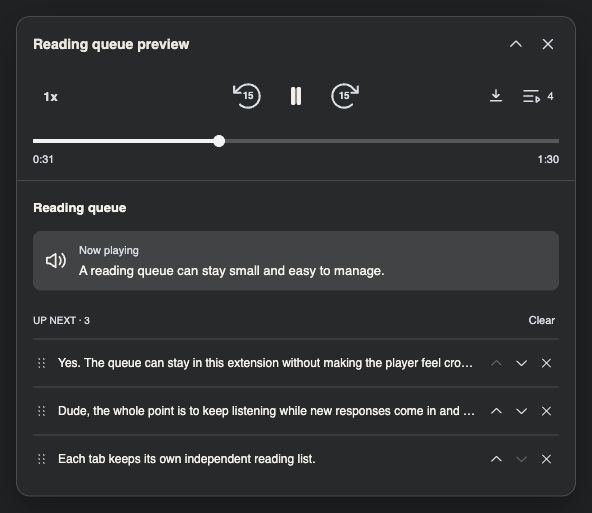
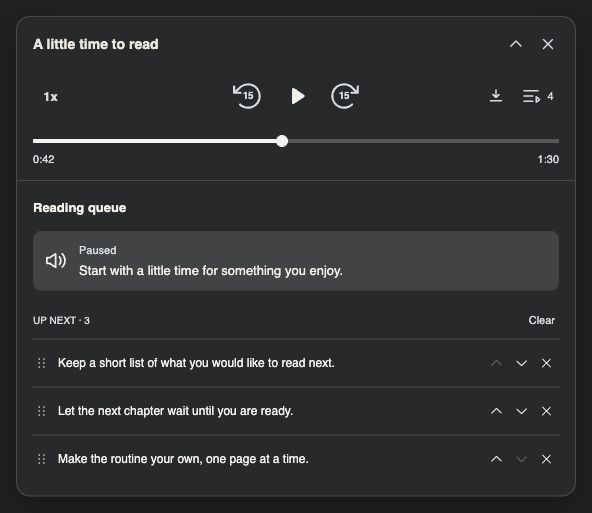
Unify documentation with theme-aware screenshots and splash

diff --git a/images/splash-source.html b/images/splash-source.html
@@ -1,0 +1,42 @@
+<!doctype html>
+<html lang="en">
+<meta charset="utf-8">
+<meta name="viewport" content="width=device-width,initial-scale=1">
+<title>Read Aloud Controls — documentation splash</title>
+<style>
+    * { box-sizing: border-box; }
+    :root { --paper: #e9ece6; --ink: #28302a; --muted: #5d685f; --label: #667064; }
+    html[data-theme=dark] { --paper: #1b241f; --ink: #e9eee8; --muted: #a4b3a7; --label: #9daf9f; }
+    body { margin: 0; background: var(--paper); font-family: -apple-system, BlinkMacSystemFont, 'Segoe UI', sans-serif; color: var(--ink); }
+    #splash { position: relative; width: 1280px; height: 920px; overflow: hidden; background: var(--paper); }
+    header { position: absolute; left: 84px; top: 48px; }
+    .brand { margin: 0 0 17px; font-size: 17px; font-weight: 600; letter-spacing: .2px; color: var(--muted); }
+    h1 { margin: 0; font-size: 68px; line-height: 1.04; letter-spacing: -3px; font-weight: 650; }
+    .subtitle { margin: 19px 0 0; font-size: 22px; color: var(--muted); letter-spacing: -.3px; }
+    figure { position: absolute; margin: 0; width: 560px; }
+    figcaption { position: absolute; top: -31px; font-size: 12px; letter-spacing: 2px; font-weight: 650; color: var(--label); }
+    .light { left: 84px; top: 278px; }
+    .dark { left: 606px; top: 384px; z-index: 2; }
+    .dark figcaption { right: 0; }
+    .window { position: relative; width: 560px; height: 481px; border-radius: 14px; overflow: hidden; background: #f7f7f4; box-shadow: 0 30px 55px -22px #26342840, 0 5px 15px #2634280a; }
+    .dark .window { background: #28292b; box-shadow: 0 35px 65px -22px #17231b55, 0 8px 20px #17231b12; }
+    figure img { position: absolute; left: -16px; top: -16px; width: 592px; height: 513px; }
+    footer { position: absolute; left: 84px; bottom: 66px; width: 410px; font-size: 17px; color: var(--muted); line-height: 1.5; }
+</style>
+<main id="splash" aria-label="Read Aloud Controls product splash showing light and dark players">
+    <header>
+        <p class="brand">Read Aloud Controls for ChatGPT</p>
+        <h1>Listen at your pace.</h1>
+        <p class="subtitle">A familiar player. A queue you control.</p>
+    </header>
+    <figure class="light"><figcaption>LIGHT</figcaption><div class="window"><img src="reading-queue-light.jpg" alt="Actual extension player and queue in light mode"></div></figure>
+    <figure class="dark"><figcaption>DARK</figcaption><div class="window"><img src="reading-queue-dark.jpg" alt="Actual extension player and queue in dark mode"></div></figure>
+    <footer>Light or dark.<br>The same controls, right where you need them.</footer>
+</main>
+<script>
+    // Only the composition background changes. Both product views are untouched
+    // browser captures of the actual extension, arranged by this source file.
+    const theme = new URLSearchParams(location.search).get('theme');
+    document.documentElement.dataset.theme = theme === 'dark' ? 'dark' : 'light';
+</script>
+</html>

diff --git a/images/review.html b/images/review.html
@@ -1,0 +1,33 @@
+<!doctype html>
+<html lang="en">
+<meta charset="utf-8">
+<meta name="viewport" content="width=device-width,initial-scale=1">
+<title>README visual review</title>
+<style>
+    *{box-sizing:border-box}body{margin:0;background:#fff;color:#1f2328;font:14px system-ui,sans-serif}body[data-theme=dark]{background:#0d1117;color:#e6edf3}
+    header{max-width:960px;margin:24px auto;padding:0 24px;display:flex;align-items:center;gap:10px}header p{flex:1;margin:0}button{padding:7px 14px;border:1px solid #8886;border-radius:6px;background:transparent;color:inherit;font:inherit;cursor:pointer}button[aria-pressed=true]{outline:2px solid #6c9b87;outline-offset:2px}
+    iframe{display:block;width:min(960px,100%);height:2840px;margin:auto;border:0}
+</style>
+<header><p>README image sequence · theme preview</p><button type="button" data-theme="light">Light</button><button type="button" data-theme="dark">Dark</button></header>
+<iframe title="Actual theme-aware picture elements from the README"></iframe>
+<script>
+    const frame=document.querySelector('iframe');
+    function setTheme(theme){
+        document.body.dataset.theme=theme;
+        frame.style.colorScheme=theme;
+        document.querySelectorAll('button').forEach(button=>button.setAttribute('aria-pressed',String(button.dataset.theme===theme)));
+    }
+    document.querySelectorAll('button').forEach(button=>button.onclick=()=>setTheme(button.dataset.theme));
+    setTheme('light');
+    fetch('../README.md').then(response=>response.text()).then(markdown=>{
+        const pictures=[...markdown.matchAll(/<picture>[\s\S]*?<\/picture>/g)].map(match=>match[0]);
+        const headings=['Product splash','Expanded player','Minimized player','Reading queue','Settings'];
+        const base=new URL('../',location.href).href;
+        frame.srcdoc=`<!doctype html><html lang="en"><meta charset="utf-8"><base href="${base}"><style>
+            :root{color-scheme:light dark;--bg:#fff;--fg:#1f2328;--border:#d1d9e0} @media(prefers-color-scheme:dark){:root{--bg:#0d1117;--fg:#e6edf3;--border:#3d444d}}
+            body{margin:0;padding:8px 56px;background:var(--bg);color:var(--fg);font:16px/1.5 system-ui,sans-serif}h1{font-size:32px;margin:0 0 20px;padding-bottom:8px;border-bottom:1px solid var(--border)}h2{font-size:23px;margin:32px 0 16px}picture{display:block}img{max-width:100%;height:auto}section:first-of-type h2{display:none}
+            @media(max-width:640px){body{padding:8px 16px}}
+            </style><h1>Read Aloud Controls for ChatGPT</h1>${pictures.map((picture,index)=>`<section><h2>${headings[index]}</h2>${picture}</section>`).join('')}</html>`;
+    });
+</script>
+</html>

diff --git a/tests/fixtures/reading-queue-preview.html b/tests/fixtures/reading-queue-preview.html
@@ -26,7 +26,14 @@ window.fetch=(input,options)=>String(input).includes('/backend-api/synthesize')?
 <script src="../../src/js/player-settings.js"></script><script src="../../src/js/aac-container.js"></script><script src="../../src/js/media-timeline.js"></script><script src="../../src/js/captured-playback.js"></script><script src="../../src/js/reading-queue.js"></script><script src="../../src/js/content-script.js"></script>
 <script>
 let pageAudio=null;let pageObjectUrl=null;let number=0;let theme='dark';
-const examples=[
+const documentationPreview=new URLSearchParams(location.search).get('ae-docs')==='1';
+if(documentationPreview)document.title='A little time to read - ChatGPT';
+const examples=documentationPreview?[
+ 'Start with a little time for something you enjoy. A few quiet minutes can make room for a good book.',
+ 'Keep a short list of what you would like to read next. Choose whatever fits your mood today.',
+ 'Let the next chapter wait until you are ready. You can pick up exactly where you left off.',
+ 'Make the routine your own, one page at a time. There is no need to rush through the whole list.'
+]:[
  'A reading queue can stay small and easy to manage. Keep the player familiar, then reveal upcoming messages only when you need them.',
  'Yes. The queue can stay in this extension without making the player feel crowded. Keep the everyday controls easy to reach.',
  'Dude, the whole point is to keep listening while new responses come in and still be able to move things around without losing your place in the conversation.',

diff --git a/images/popup-source.html b/images/popup-source.html
@@ -1,0 +1,13 @@
+<!doctype html>
+<html lang="en">
+<meta charset="utf-8">
+<title>Settings documentation capture</title>
+<style>html,body{margin:0}iframe{display:block;width:300px;height:395px;border:0}</style>
+<iframe title="Actual extension settings" src="../src/popup.html"></iframe>
+<script>
+    // An iframe inherits the embedding element's color scheme, so production
+    // popup media queries render the requested appearance without a CSS override.
+    const theme = new URLSearchParams(location.search).get('theme');
+    document.querySelector('iframe').style.colorScheme = theme === 'light' ? 'light' : 'dark';
+</script>
+</html>

diff --git a/images/README.md b/images/README.md
@@ -1,50 +1,74 @@
-# Documentation screenshots
+# Documentation visuals
 
 Captured October 30, 2026 from the production extension UI at runtime commit
-`4d782b3`. These are browser JPEG captures, cropped around the player or popup.
-They are not renders of the separate design prototype and have not had controls,
-text, or playback state painted onto them.
+`4d782b3`. The player and popup images are browser JPEG captures. The splash is a
+composition of those captures with typography and a background; its controls and
+response text are the captured product UI.
 
-The player captures use `tests/fixtures/reading-queue-preview.html`, which loads
-the actual player, drawer, scheduler, adapter, media helpers, and styles. Only
-extension storage and the speech/media service are replaced by local boundaries
-with sample responses and silent WAV audio. The popup capture uses the actual
-`src/popup.html`, scripts, and styles; without Chrome storage it displays defaults.
-These images demonstrate UI appearance, not a live ChatGPT compatibility test.
+## Theme-aware presentation
 
-| Image | State | Dimensions |
+The README and usage guide use GitHub-supported `<picture>` elements. A dark
+`<source media="(prefers-color-scheme: dark)">` selects the dark image; the `<img>`
+provides the light image, accessible alternative text, and a fallback for other
+Markdown renderers. Supporting screenshots follow the reader's theme throughout
+the page. The splash intentionally compares both modes together on a matching
+light or dark background.
+
+Open `review.html` on the local server to inspect the actual README picture
+elements together. Its Light and Dark controls change the embedding color scheme
+for review; production Markdown uses the reader's GitHub appearance.
+
+[GitHub's theme-aware image guide](https://github.blog/developer-skills/github/how-to-make-your-images-in-markdown-on-github-adjust-for-dark-mode-and-light-mode/)
+
+| Image pair (`-light.jpg` / `-dark.jpg`) | State | Dimensions |
 | --- | --- | --- |
-| `reading-queue-dark.jpg` | Playing, drawer open, one current response and three waiting. | 592 × 513 |
-| `reading-queue-light.jpg` | Paused, drawer open, same queue. | 592 × 513 |
-| `player-expanded-light.jpg` | Paused, drawer closed. | 592 × 197 |
-| `player-minimized-light.jpg` | Paused, minimized, same skip values. | 592 × 88 |
-| `settings.jpg` | Actual settings form with fresh-install defaults. | 300 × 395 |
+| `splash` | Light and dark players, slightly overlapped in one composition. | 1280 × 920 |
+| `reading-queue` | Paused, drawer open, one current response and three waiting. | 592 × 513 |
+| `player-expanded` | Paused, drawer closed. | 592 × 197 |
+| `player-minimized` | Paused, minimized, same skip values. | 592 × 88 |
+| `settings` | Actual settings form with fresh-install defaults. | 300 × 395 |
+
+## Capture sources
+
+Player captures use `tests/fixtures/reading-queue-preview.html?ae-docs=1`, which
+loads the actual player, drawer, scheduler, adapter, media helpers, and styles.
+The documentation parameter selects a neutral sample title and excerpts. Only
+extension storage and speech/media use local boundaries with silent WAV audio.
+These captures demonstrate appearance, not live ChatGPT compatibility.
+
+`popup-source.html?theme=light` or `?theme=dark` embeds the actual `src/popup.html`.
+The iframe's `color-scheme` lets the production popup's own media queries select
+the appearance. Without extension storage, its actual script displays defaults.
+
+`splash-source.html?theme=light` or `?theme=dark` arranges the two queue captures,
+cropping only their outer margins. It adds the title, theme labels, background,
+and shadows. No player controls are recreated or retouched.
 
 ## Refresh captures
 
 1. Serve the repository locally as described in [DEVELOPMENT.md](../docs/DEVELOPMENT.md).
-2. Open `tests/fixtures/reading-queue-preview.html` at a desktop viewport wide
-   enough for the 560px player. The original captures used 1280 × 720 CSS pixels.
-3. Select **Start sample queue**, then skip forward once to show timeline progress.
-4. Scroll back to the top so the harness controls stay outside the crop. Open the
-   reading drawer and move the pointer onto blank page space to remove hover tint.
-5. Capture the dark playing state. Pause to hold a stable position for subsequent
-   captures. Close the drawer before using the harness's theme button, then scroll
-   back to the top and reopen it for the light capture.
-6. Close the drawer for the expanded-player image. Minimize for the compact image.
-   Include the whole border and a little space for the shadow; retain a consistent
-   displayed width across player screenshots.
-7. Open `src/popup.html` and capture its 300px-wide form, including the status text.
-   The popup follows the browser's system color scheme; this capture is dark.
-8. Inspect every saved image at its displayed size, check file extensions match
-   the actual image format, and update captions if the UI or queue count changed.
+2. Open the interactive fixture with `?ae-docs=1` at a desktop viewport wide
+   enough for the 560px player. These captures used 1280 × 720 CSS pixels.
+3. Select **Start sample queue**, advance with the skip controls, then Pause to
+   hold the same position across every screenshot. Do not edit the rendered text
+   or draw controls onto an exported image.
+4. Scroll to the top so harness controls remain outside the crop. Open the
+   drawer and move the pointer onto blank space before capturing. Close the
+   drawer before clicking the harness theme button, then reopen it in the other
+   theme. Confirm both variants show the same title, position, count, and excerpts.
+5. Capture the expanded player with the drawer closed and then the minimized
+   player in each theme. Preserve matching bounds, including border and shadow.
+6. Capture the 300px-wide form through each `popup-source.html` theme variant.
+7. Open both `splash-source.html` variants and export the full 1280 × 920 page.
+   Check overlap, shadow clipping, text contrast, and actual UI content.
+8. Inspect both documentation themes. Every supporting `<picture>` must select
+   its matching source; the splash's background must match too. Check image
+   extensions and dimensions and keep alternative text neutral about theme.
 
-Use synthetic sample responses, or explicitly approved public content. Do not
-publish screenshots of private chats, account details, or browser profile UI.
-Keep screenshot provenance accurate: a local production-UI capture is not a
-screenshot of the installed extension on live ChatGPT.
+Use sample responses or explicitly approved public content. Do not publish
+private chats, account details, or browser profile UI. A local production-UI
+capture is not a screenshot of the installed extension on live ChatGPT.
 
 The legacy `small-promo-tile-440x280.png` and
-`marquee-promo-tile-1400x560.png` remain historical promotional assets. They are
-not used by the current documentation and have not been refreshed as store art.
-Original project credit remains in [CREDITS.md](../CREDITS.md).
+`marquee-promo-tile-1400x560.png` remain historical promotional assets, outside
+current documentation. Original credit remains in [CREDITS.md](../CREDITS.md).

diff --git a/docs/USAGE.md b/docs/USAGE.md
@@ -4,7 +4,10 @@
 
 Start **Read Aloud** on a completed ChatGPT response. The floating player appears when playback starts. Drag its header to reposition it.
 
-![Expanded player with the reading drawer closed](../images/player-expanded-light.jpg)
+<picture>
+  <source media="(prefers-color-scheme: dark)" srcset="../images/player-expanded-dark.jpg">
+  <img src="../images/player-expanded-light.jpg" alt="Expanded player with the reading drawer closed">
+</picture>
 
 | Control | What it does |
 | --- | --- |
@@ -23,7 +26,10 @@ The player briefly disables Pause while preparing a resumable copy of the respon
 
 While one response is playing or paused, select **Read Aloud** on another completed response. It joins the end instead of interrupting playback. This also works when automatic reading is off.
 
-![Actual dark drawer showing one playing response and three upcoming responses](../images/reading-queue-dark.jpg)
+<picture>
+  <source media="(prefers-color-scheme: dark)" srcset="../images/reading-queue-dark.jpg">
+  <img src="../images/reading-queue-light.jpg" alt="Reading drawer showing one paused response and three upcoming responses">
+</picture>
 
 The queue button counts **current + waiting**. In this screenshot its `4` means one current response and three waiting; **Up next · 3** refers only to those waiting. A current response still counts while paused. A finished response does not count.
 
@@ -42,7 +48,10 @@ Selecting an already queued response does not add a duplicate. Excerpts use a me
 
 Pausing holds your position and prevents the next response from starting. New responses can still join the queue. Playback advances when the current audio ends, keeping the player mounted while the next response starts.
 
-![Minimized player with the same playback and skip controls](../images/player-minimized-light.jpg)
+<picture>
+  <source media="(prefers-color-scheme: dark)" srcset="../images/player-minimized-dark.jpg">
+  <img src="../images/player-minimized-light.jpg" alt="Minimized player with the same playback and skip controls">
+</picture>
 
 Minimizing hides the timeline, extra controls, and drawer. Expanding remembers whether the drawer was open. It does not change the skip intervals or playback position.
 
@@ -56,7 +65,10 @@ The current response’s captured audio uses memory for playback and download. C
 
 Open the extension popup and check **Automatically read new responses aloud**.
 
-<img src="../images/settings.jpg" alt="Extension popup showing skip, speed, theme, and automatic reading settings" width="300">
+<picture>
+  <source media="(prefers-color-scheme: dark)" srcset="../images/settings-dark.jpg">
+  <img src="../images/settings-light.jpg" alt="Extension popup showing skip, speed, theme, and automatic reading settings" width="300">
+</picture>
 
 Newly completed responses join the tab’s queue. Opening, scrolling, or focusing an existing conversation does not read its history. Both manually selected and automatically added responses wait behind paused playback.
 
@@ -92,4 +104,4 @@ The source may have been removed, edited, or unloaded by ChatGPT. The drawer rep
 
 ## About the screenshots
 
-These are browser captures of the production extension modules with local sample responses and silent audio. The popup image uses its actual HTML, CSS, and JavaScript with default settings. They show the current implementation, without publishing private ChatGPT conversations. See [capture instructions](../images/README.md).
+Images follow your GitHub theme. These are matching browser captures of the production extension modules with local sample responses and silent audio. The popup image uses its actual HTML, CSS, and JavaScript with default settings. They show the current implementation, without publishing private ChatGPT conversations. See [capture instructions](../images/README.md).

diff --git a/README.md b/README.md
@@ -2,9 +2,12 @@
 
 Listen to ChatGPT with a floating player and a reading queue you can manage. Pause and resume, seek through a response, change speed, and line up what to hear next.
 
-![Current dark player with its attached reading queue: one response playing and three waiting](images/reading-queue-dark.jpg)
+<picture>
+  <source media="(prefers-color-scheme: dark)" srcset="images/splash-dark.jpg">
+  <img src="images/splash-light.jpg" alt="Read Aloud Controls for ChatGPT: overlapping light and dark players with a reading queue">
+</picture>
 
-*Production extension UI captured locally with sample responses. [Capture notes](images/README.md).*
+*Actual extension UI with sample responses. Screenshots follow your GitHub theme; the splash presents both options together. [Capture notes](images/README.md).*
 
 This extension is independently maintained and is not affiliated with OpenAI.
 
@@ -32,11 +35,17 @@ When updating an existing unpacked installation, update its files, click **Reloa
 
 With the drawer closed, the player keeps the playback controls and timeline in view:
 
-![Expanded light player with speed, skip, playback, download, queue, and timeline controls](images/player-expanded-light.jpg)
+<picture>
+  <source media="(prefers-color-scheme: dark)" srcset="images/player-expanded-dark.jpg">
+  <img src="images/player-expanded-light.jpg" alt="Expanded player with speed, skip, playback, download, queue, and timeline controls">
+</picture>
 
 Minimizing hides the timeline and drawer while keeping the same skip intervals and Play/Pause control:
 
-![Minimized light player retaining skip back, Play, skip forward, expand, and close controls](images/player-minimized-light.jpg)
+<picture>
+  <source media="(prefers-color-scheme: dark)" srcset="images/player-minimized-dark.jpg">
+  <img src="images/player-minimized-light.jpg" alt="Minimized player retaining skip back, Play, skip forward, expand, and close controls">
+</picture>
 
 ## The reading queue
 
@@ -44,7 +53,10 @@ Open the queue beside Download to see the current response and what is waiting. 
 
 Clicking a response preview scrolls to and briefly highlights its source in the chat. It does not start playback or change the order. Pause holds your place; new responses can still join the end.
 
-![Light reading queue with a paused response and three upcoming responses](images/reading-queue-light.jpg)
+<picture>
+  <source media="(prefers-color-scheme: dark)" srcset="images/reading-queue-dark.jpg">
+  <img src="images/reading-queue-light.jpg" alt="Reading queue with a paused response and three upcoming responses">
+</picture>
 
 Queues stay in memory separately in each tab. They store response references and short excerpts, without prefetching queued audio. Closing the player clears the queue; changing conversations or reloading discards pending entries. Turning automatic reading off removes automatic entries while preserving your explicit selections and current audio.
 
@@ -54,7 +66,10 @@ See the [usage guide](docs/USAGE.md) for queue controls, settings, downloads, an
 
 Open the extension icon to set skip intervals, default speed, theme, and **Automatically read new responses aloud**. Automatic reading starts off; both skip intervals default to 15 seconds. Settings are saved locally and apply to active ChatGPT tabs.
 
-<img src="images/settings.jpg" alt="Current settings popup with independent skip intervals, default playback speed, theme, and automatic reading checkbox" width="300">
+<picture>
+  <source media="(prefers-color-scheme: dark)" srcset="images/settings-dark.jpg">
+  <img src="images/settings-light.jpg" alt="Settings popup with independent skip intervals, default playback speed, theme, and automatic reading checkbox" width="300">
+</picture>
 
 ## Playback notes
 
